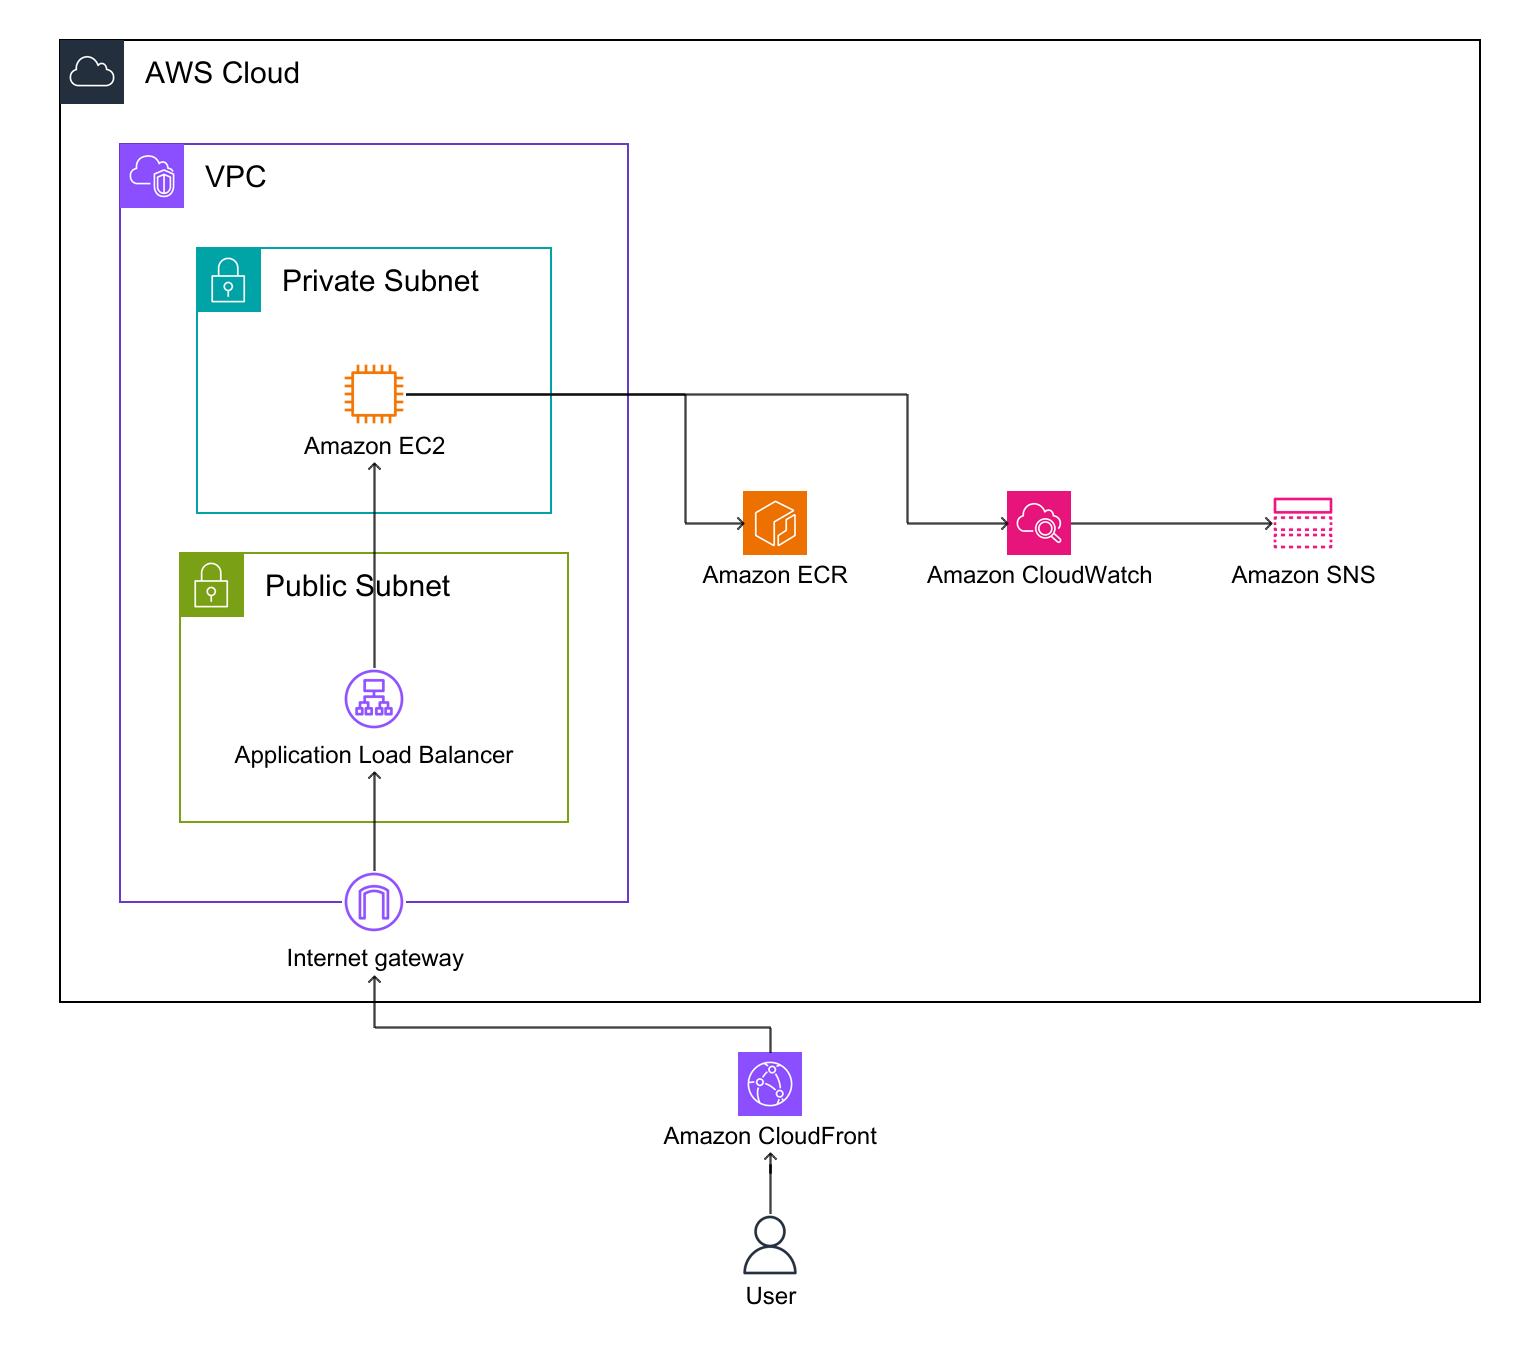
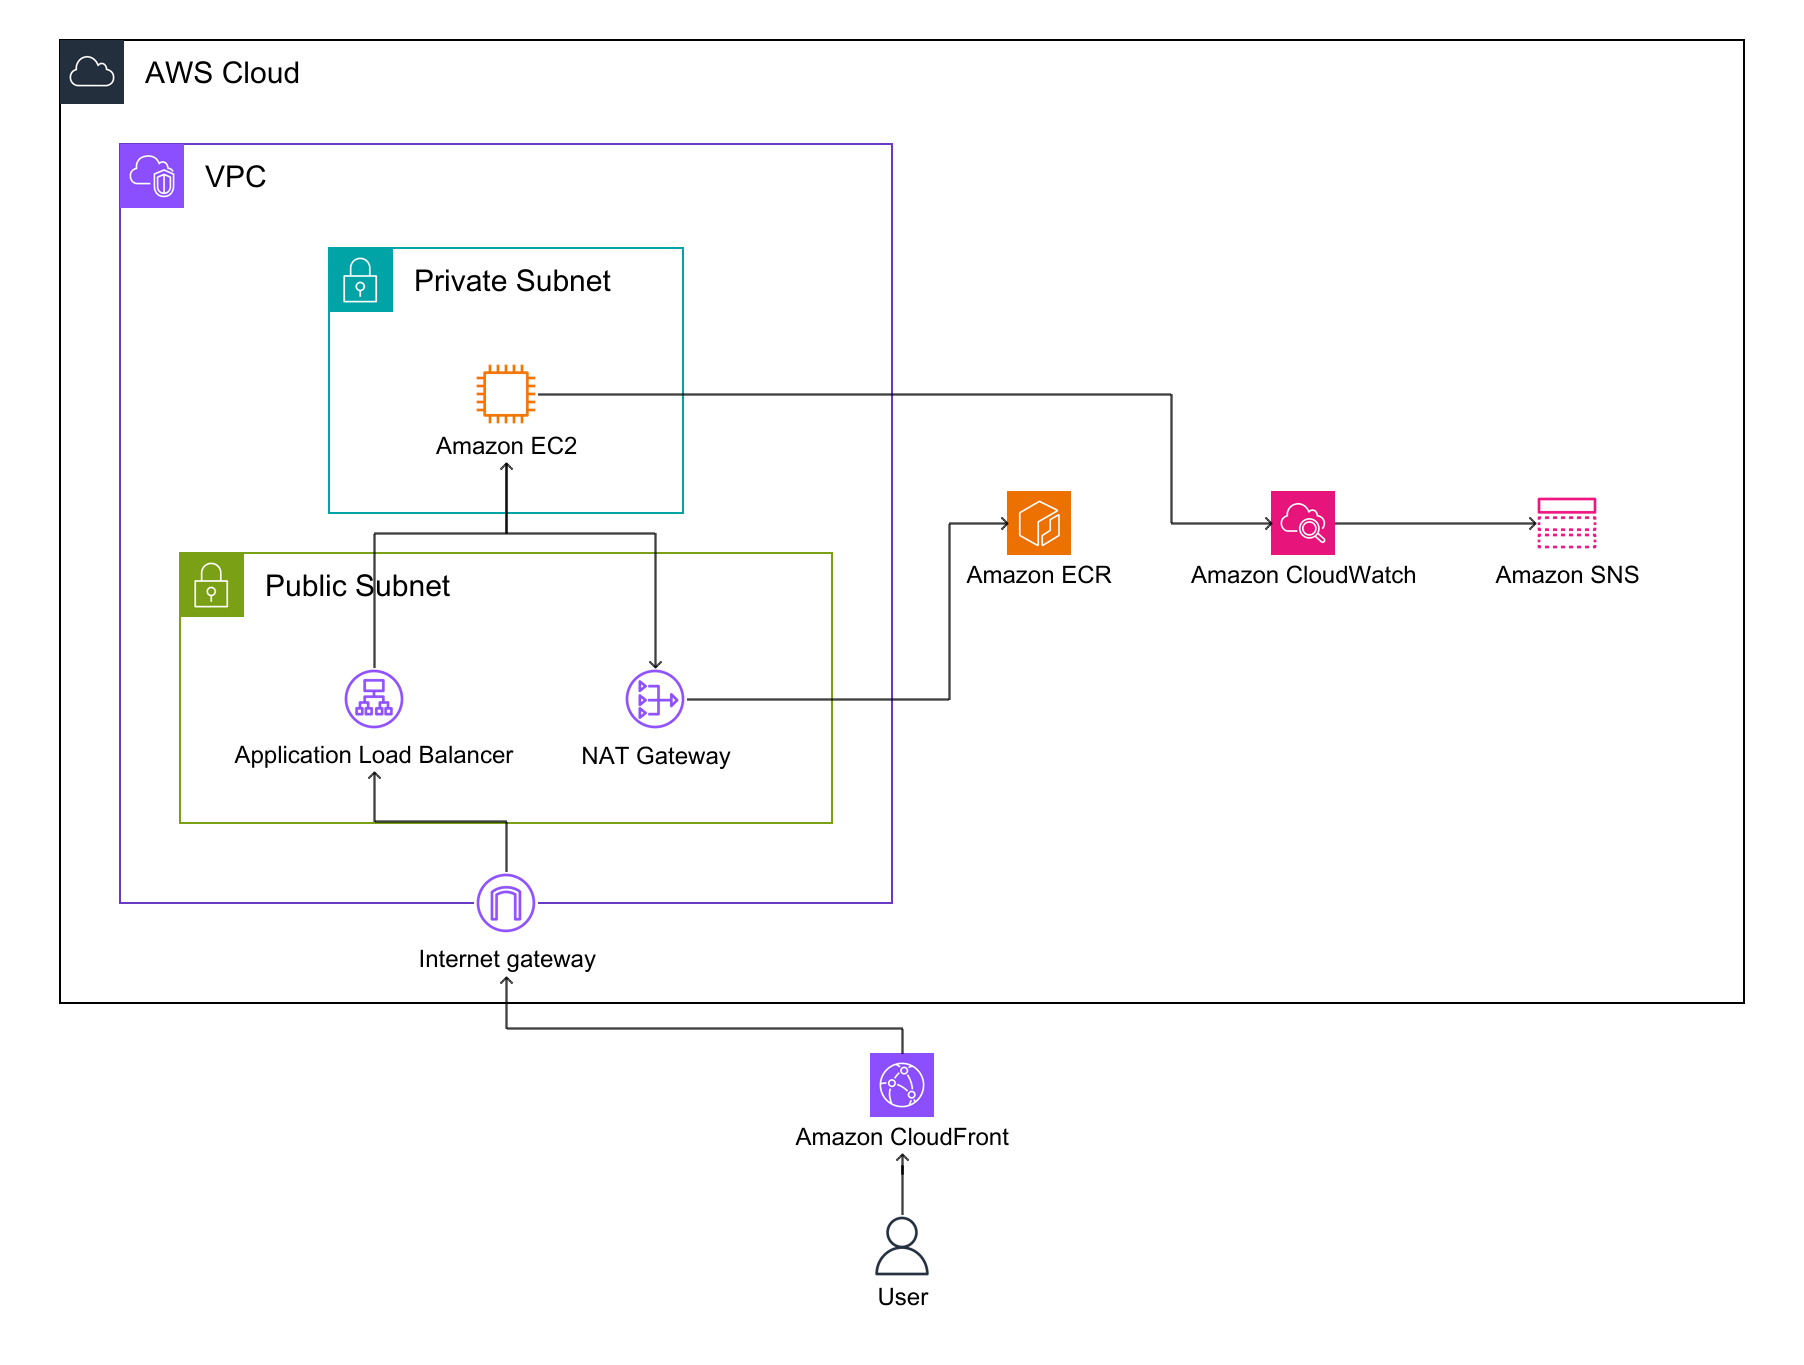
feat(infra): replace VPC endpoints with NAT Gateway, redraw diagrams, update costs

diff --git a/README.md b/README.md
@@ -1,6 +1,6 @@
 # Option 2: Web Application + Local DB on Single EC2
 
-Independent infrastructure and application source code for **Option 2: Web Application + Local Persistent DB on Single EC2 with Amazon CloudFront Edge Caching**.
+Independent infrastructure and application source code for **Option 2: Web Application + Local Persistent DB on Single EC2 with Amazon CloudFront Edge Caching and AWS NAT Gateway**.
 
 ## 1. Architecture Overview
 ![Architecture](infra/architecture_diagram.png)
@@ -8,6 +8,7 @@ Independent infrastructure and application source code for **Option 2: Web Appli
 ### Key Architectural Highlights:
 - **CloudFront CDN Edge Caching:** Caches static assets (`/_next/static/*`) globally, reducing direct request pressure on the single EC2 server to preserve CPU/RAM for the co-located local database.
 - **Application Load Balancer (ALB):** Spans Multi-AZ Public Subnets, handling SSL/TLS termination and forwarding traffic to the private EC2 instance.
+- **AWS NAT Gateway:** Deployed in the Public Subnet with an Elastic IP, enabling the private EC2 instance to pull images from Amazon ECR and perform updates securely without inbound exposure.
 - **Single EC2 Web + Local Database:** Runs the Dockerized Next.js application alongside a local SQLite database mounted onto an encrypted EBS gp3 volume (`/var/data/sqlite`).
 - **AWS SSM Container Reload:** CI/CD triggers zero-SSH remote container updates via `aws ssm send-command`, pulling the latest image without opening inbound port 22.
 - **Automated Monitoring & Alerts:** CloudWatch Alarms (ALB 5XX and EC2 CPU > 85%) notify engineers via Amazon SNS Topic; log retention auto-expires after 14 days (Dev) / 30 days (Prod).
@@ -20,22 +21,21 @@ Independent infrastructure and application source code for **Option 2: Web Appli
 ### A. Component Cost Breakdown (Infracost CLI Verified)
 | CloudFormation Module / Component | AWS Resource Type | Monthly Cost (USD) | Notes |
 | :--- | :--- | :--- | :--- |
+| **AWS NAT Gateway** | `AWS::EC2::NatGateway` | **$32.85** | Managed NAT Gateway in Public Subnet (0.0.0.0/0 egress) |
 | **Application Load Balancer (ALB)** | `AWS::ElasticLoadBalancingV2::LoadBalancer` | **$16.43** | Multi-AZ SSL/TLS termination and health checking |
 | **Single EC2 Web + Local DB** | `AWS::EC2::Instance` (`t3.micro` + EBS gp3) | **$9.49** | Baseline 1x instance (730 hrs/month) |
 | **Secrets & Monitoring** | `SecretsManager`, `CloudWatch`, `SNS` | **$0.30** | Auth token secret + operational alarms |
-| **Subtotal (Core Web + Database Tier)** | `infra/modules/app.yaml` | **$26.22 / mo** | ~664,000 VND / month |
-| **Private VPC Interface Endpoints (Optional)** | `AWS::EC2::VPCEndpoint` (7 endpoints) | **$102.20** | SSM, ECR, CloudWatch Logs in Private Subnets |
-| **Total (Full Enterprise Isolated Architecture)** | `infra/modules/` | **$128.42 / mo** | ~3,250,000 VND / month |
+| **Total Monthly Cost** | `infra/modules/` | **$59.07 / mo** | ~1,495,000 VND / month |
 
-### B. Cost by Purchasing Option & Architecture Mode
-| Purchasing Model / Mode | Web + DB Compute (`t3.micro`) | ALB & Supporting | Total (Lean Mode)* | Total (Full Isolated) | Approx. Local Currency (Lean) |
-| :--- | :--- | :--- | :--- | :--- | :--- |
-| **On-Demand (Default)** | $9.49 | $16.73 | **$26.22 / mo** | **$128.42 / mo** | ~664,000 VND |
-| **1-Year Savings Plan** | $5.98 | $16.73 | **$22.71 / mo** *(13% off)* | **$124.91 / mo** | ~575,000 VND |
-| **3-Year Savings Plan** | $3.79 | $16.73 | **$20.52 / mo** *(22% off)* | **$122.72 / mo** | ~520,000 VND |
-| **Production Scale (`t3.small` 2GB RAM)** | $18.98 | $16.73 | **$35.71 / mo** | **$137.91 / mo** | ~905,000 VND |
+*(Tiết kiệm **$69.35 / tháng** so với mô hình cũ sử dụng 7 VPC Interface Endpoints $102.20/tháng).*
 
-*\*Lean Mode: Compute + ALB + CloudFront routing without dedicated VPC Interface Endpoints ($102.20/mo).*
+### B. Cost by Purchasing Option & Commitment
+| Purchasing Model | Web + DB Compute (`t3.micro`) | NAT Gateway & ALB | Total Monthly Cost | Approx. Local Currency (VND) |
+| :--- | :--- | :--- | :--- | :--- |
+| **On-Demand (Default)** | $9.49 | $49.58 | **$59.07 / mo** | ~1,495,000 VND |
+| **1-Year Savings Plan** | $5.98 | $49.58 | **$55.56 / mo** *(6% savings)* | ~1,405,000 VND |
+| **3-Year Savings Plan** | $3.79 | $49.58 | **$53.37 / mo** *(10% savings)* | ~1,350,000 VND |
+| **Production Scale (`t3.small` 2GB RAM)** | $18.98 | $49.58 | **$68.56 / mo** | ~1,735,000 VND |
 
 ## 3. Disaster Recovery & Recovery Time (MTTR)
 
